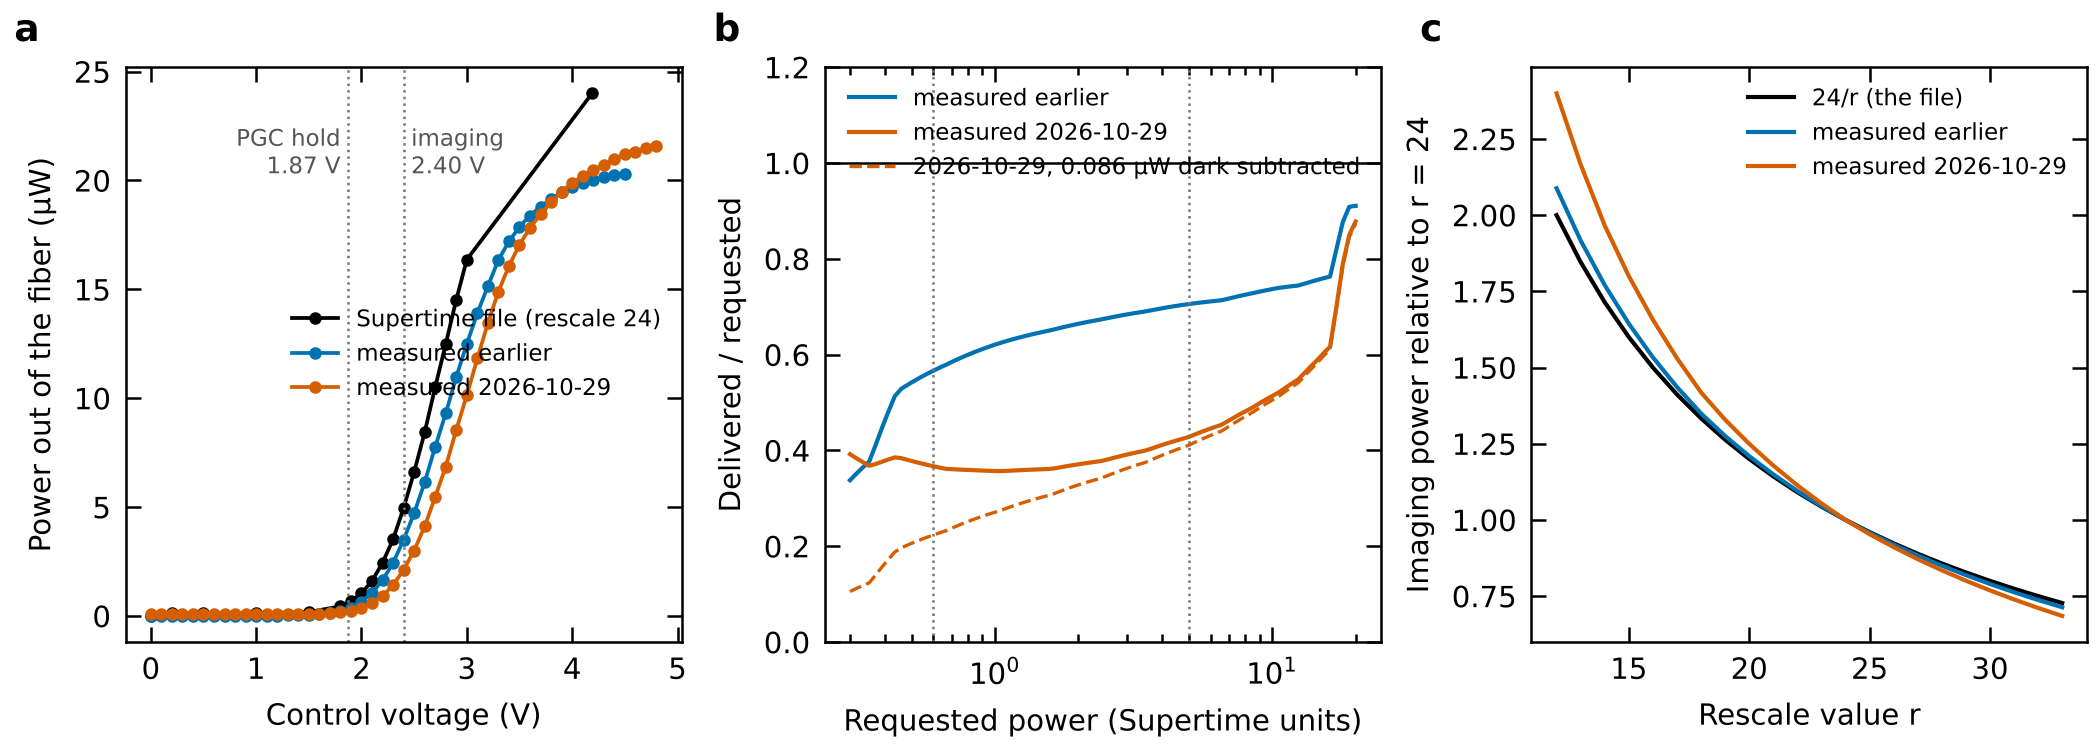
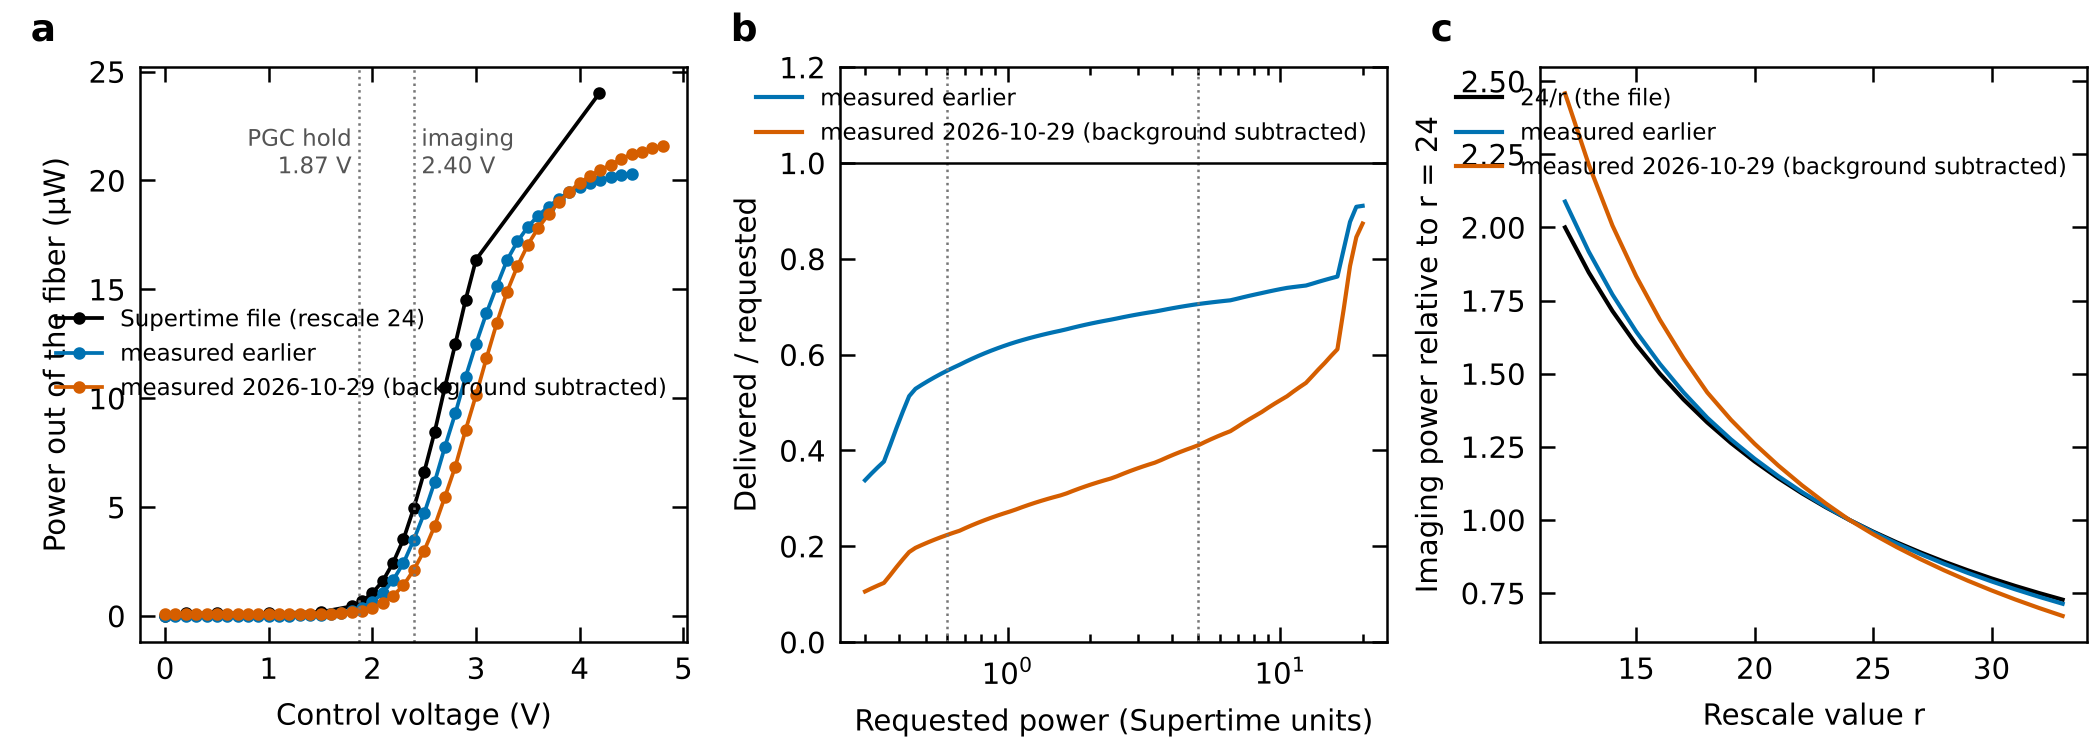
Subtract the 0.086 uW room background from the 2026-10-29 AOM curve
Beam-blocked reading (Maarten). Imaging request 5 at rescale 24: 2.06 uW
(direct measurement 2.11 after background); PGC hold 0.6: 0.13 uW, 0.065 of
imaging (~0.095 mW/cm^2 per beam). Rescale 24 -> 14: 2.01x.

Claude-Session: https://claude.ai/code/session_01Tq2BHBDkQC5QHh46bwt5JD

diff --git a/src/lattice_sim/molasses/aom.py b/src/lattice_sim/molasses/aom.py
@@ -22,6 +22,9 @@ CAL_CSV = Path(__file__).resolve().parents[3] / "data" / "measured" / "molasses_
 IMAGING_REQUEST = 5.0          # Molasses-beams value during the exposures (PGC_vapor_loading.dt4, hopping sequences)
 PGC_HOLD_REQUEST = 0.6         # during the 1000 ms PGC-field hold (PGC_vapor_loading.dt4)
 RESCALE_NOW = 24.0             # AOMrescale value since 2026-10-27 03:03 (aomlog.txt)
+# Power-meter reading with the beam blocked (room background), subtracted from each measured curve:
+# 2026-10-29 reads 0.079-0.086 uW at 0-1.1 V, "essentially with the beam blocked" (Maarten, 2026-10-29).
+BACKGROUND_UW = {"new": 0.086, "old": 0.0, "supertime": 0.0}
 
 
 def load_curves(path=CAL_CSV):
@@ -41,16 +44,17 @@ def request_to_volts(request, rescale, file_curve):
     return np.interp(target, p[keep], v[keep])
 
 
-def power_at(volts, curve):
-    """Measured power (uW) at a control voltage, linear interpolation."""
+def power_at(volts, curve, background_uw=0.0):
+    """Measured power (uW) at a control voltage, linear interpolation, background subtracted (>= 0)."""
     v, p = curve
-    return np.interp(volts, v, p)
+    return np.clip(np.interp(volts, v, p) - background_uw, 0.0, None)
 
 
 def delivered(request, rescale, curves, measured="new"):
-    """(volts, delivered power uW, nominal uW) for a request: nominal = what the scaled file promises."""
+    """(volts, delivered power uW, nominal uW) for a request: nominal = what the scaled file promises;
+    the delivered power has the meter background (BACKGROUND_UW) subtracted."""
     volts = request_to_volts(request, rescale, curves["supertime"])
-    return volts, power_at(volts, curves[measured]), np.asarray(request, float)
+    return volts, power_at(volts, curves[measured], BACKGROUND_UW.get(measured, 0.0)), np.asarray(request, float)
 
 
 def relative_power(rescale, reference=RESCALE_NOW, request=IMAGING_REQUEST, curves=None, measured="new"):

diff --git a/tests/test_molasses.py b/tests/test_molasses.py
@@ -173,16 +173,17 @@ def test_total_saturation_limit():
 
 
 def test_aom_calibration_reproduces_the_measured_imaging_power():
-    """Request 5 at rescale 24 through Supertime's file, then the 2026-10-29 curve: 2.14 uW, against the
-    2.2 uW measured directly out of the fiber (Maarten, 2026-10-29) - two independent routes."""
+    """Request 5 at rescale 24 through Supertime's file, then the 2026-10-29 curve: 2.06 uW after the
+    0.086 uW room background, against 2.2 - 0.086 = 2.11 uW measured directly out of the fiber
+    (Maarten, 2026-10-29) - two independent routes."""
     from lattice_sim.molasses import aom
     c = aom.load_curves()
     v = float(aom.request_to_volts(5.0, 24.0, c["supertime"]))
     assert v == pytest.approx(2.4023, abs=2e-4)
-    assert float(aom.power_at(v, c["new"])) == pytest.approx(2.2, rel=0.05)
+    assert float(aom.delivered(5.0, 24.0, c)[1]) == pytest.approx(2.2 - aom.BACKGROUND_UW["new"], rel=0.05)
     assert float(aom.request_to_volts(24.0, 24.0, c["supertime"])) == pytest.approx(4.189)
     assert float(aom.relative_power(24.0, curves=c)) == pytest.approx(1.0)
-    assert float(aom.relative_power(14.0, curves=c)) == pytest.approx(1.966, abs=0.01)      # not 24/14 = 1.714
+    assert float(aom.relative_power(14.0, curves=c)) == pytest.approx(2.01, abs=0.01)       # not 24/14 = 1.714
     rows = aom.supertime_file_lines(c["new"], offset_uw=0.086)
     vals = np.array([[float(x) for x in r.split("\t")] for r in rows])
     assert vals[0].tolist() == [0.0, 0.0] and np.all(np.diff(vals[:, 1]) >= 0)

diff --git a/scripts/molasses_aom_calibration.py b/scripts/molasses_aom_calibration.py
@@ -30,9 +30,10 @@ sys.path.insert(0, str(REPO / "src"))
 from lattice_sim.molasses import aom  # noqa: E402
 from lattice_sim.viz.style import DOUBLE_COLUMN_IN, apply  # noqa: E402
 
-DARK_UW = 0.086          # 'new' reading at 0.1-1.1 V (AOM below threshold)
+DARK_UW = aom.BACKGROUND_UW["new"]     # meter reading with the beam blocked (room background)
 COL = {"supertime": "#000000", "old": "#0072B2", "new": "#D55E00"}
-LABEL = {"supertime": "Supertime file (rescale 24)", "old": "measured earlier", "new": "measured 2026-10-29"}
+LABEL = {"supertime": "Supertime file (rescale 24)", "old": "measured earlier",
+         "new": "measured 2026-10-29 (background subtracted)"}
 
 
 def write_supertime_file(curves, offset, path):
@@ -69,9 +70,6 @@ def main(argv):
     for k in ("old", "new"):
         _, p, _ = aom.delivered(req, aom.RESCALE_NOW, c, k)
         ax[1].plot(req, p / req, color=COL[k], lw=1, label=LABEL[k])
-    _, p, _ = aom.delivered(req, aom.RESCALE_NOW, c, "new")
-    ax[1].plot(req, np.clip(p - offset, 0, None) / req, color=COL["new"], lw=0.8, ls="--",
-               label=f"2026-10-29, {offset:g} µW dark subtracted")
     for r in (aom.PGC_HOLD_REQUEST, aom.IMAGING_REQUEST):
         ax[1].axvline(r, color="#777777", lw=0.6, ls=":")
     ax[1].axhline(1, color="#000000", lw=0.6)

diff --git a/docs/data_requests.md b/docs/data_requests.md
@@ -67,7 +67,7 @@ values or guesses and are flagged in `scripts/p3_echo_analysis.py`.
 The molasses model is `lattice_sim.molasses` (findings 2026-10-29); its tables come from `scripts/molasses_scan.py`.
 
 35. ~~Molasses detuning~~ **Answered 2026-10-29**: locked to the F = 4 → F′ = 4/5 crossover (−125.5 MHz), single-pass AOM +75 (old), +90, +95, +100 (current), +105 MHz → −50.5, −35.5, −30.5, −25.5, −20.5 MHz. Li (2009) quotes −45.5 MHz for the +75 MHz setting; the crossover arithmetic gives −50.5. *Enters as* `Config.detuning`; `scripts/molasses_scan.py` `LAB_DETUNINGS`.
-36. **Intensity per beam at the atoms** (partly answered 2026-10-29): 0.40–0.50 µW per beam at full AOM power during imaging; waists from Li (2009): 140 µm incoming, 100 µm retro (balancing the cell losses) → peak 1.3–1.6 mW/cm² per beam (2P/πw²). Still open: the waists today and the beam centring on the atoms (one beam is known to be misaligned), and the AOM-rescale setting used in each PGC scan (rescale r: power ∝ r₀/r). *Enters as* `Config.intensity`, `Config.imbalance`. **Update 2026-10-29:** the AOM curve is now measured (`data/measured/molasses_aom_calibration_20261029.csv`, `lattice_sim.molasses.aom`); open: whether the 0.079–0.086 µW read at 0–1.1 V is the meter's dark level or light (it is 40 % of the PGC-hold power), and the conversion from fiber output to intensity at the atoms (waists, centring).
+36. **Intensity per beam at the atoms** (partly answered 2026-10-29): 0.40–0.50 µW per beam at full AOM power during imaging; waists from Li (2009): 140 µm incoming, 100 µm retro (balancing the cell losses) → peak 1.3–1.6 mW/cm² per beam (2P/πw²). Still open: the waists today and the beam centring on the atoms (one beam is known to be misaligned), and the AOM-rescale setting used in each PGC scan (rescale r: power ∝ r₀/r). *Enters as* `Config.intensity`, `Config.imbalance`. **Update 2026-10-29:** the AOM curve is now measured (`data/measured/molasses_aom_calibration_20261029.csv`, `lattice_sim.molasses.aom`); the 0.079–0.086 µW read at 0–1.1 V is room background with the beam blocked (Maarten) and is subtracted (`aom.BACKGROUND_UW`); open: the conversion from fiber output to intensity at the atoms (waists, centring).
 37. **Molasses beam azimuths** about the vertical, relative to the lattice x axis, and the polarizations of the incoming and retro beams. The model takes the Brewster polar angle 55.4°, p-polarized in and s-polarized back (lin⊥lin per pair), and azimuths 270°, 45°, 135° (from Li's MOT beam angles 81° / 117°). *Enters as* `beams.AZIMUTHS_DEG`, `beams.AZIMUTH_OFFSET_DEG`. It sets which field direction heats most.
 38. **Lattice depth during PGC and imaging**: answered 2026-10-29, full depth during the PGC-sequence hold; hold 1000 ms (100 ms for coarse scans, log 2026-05-14). Hopping at partial depth is wanted too (depth scan in `scripts/molasses_scan.py depth`). Still open: repump beam direction and intensity (`model.REPUMP_DIR`).
 39. **Measured survival against field** along x, y, z (the PGC-field scans), at the old and the new detuning, with intensity and molasses duration; the zero-field currents found and the coil calibration (mG per A) and axis labels relative to the lattice axes. This is the acceptance test of the field sensitivity.
